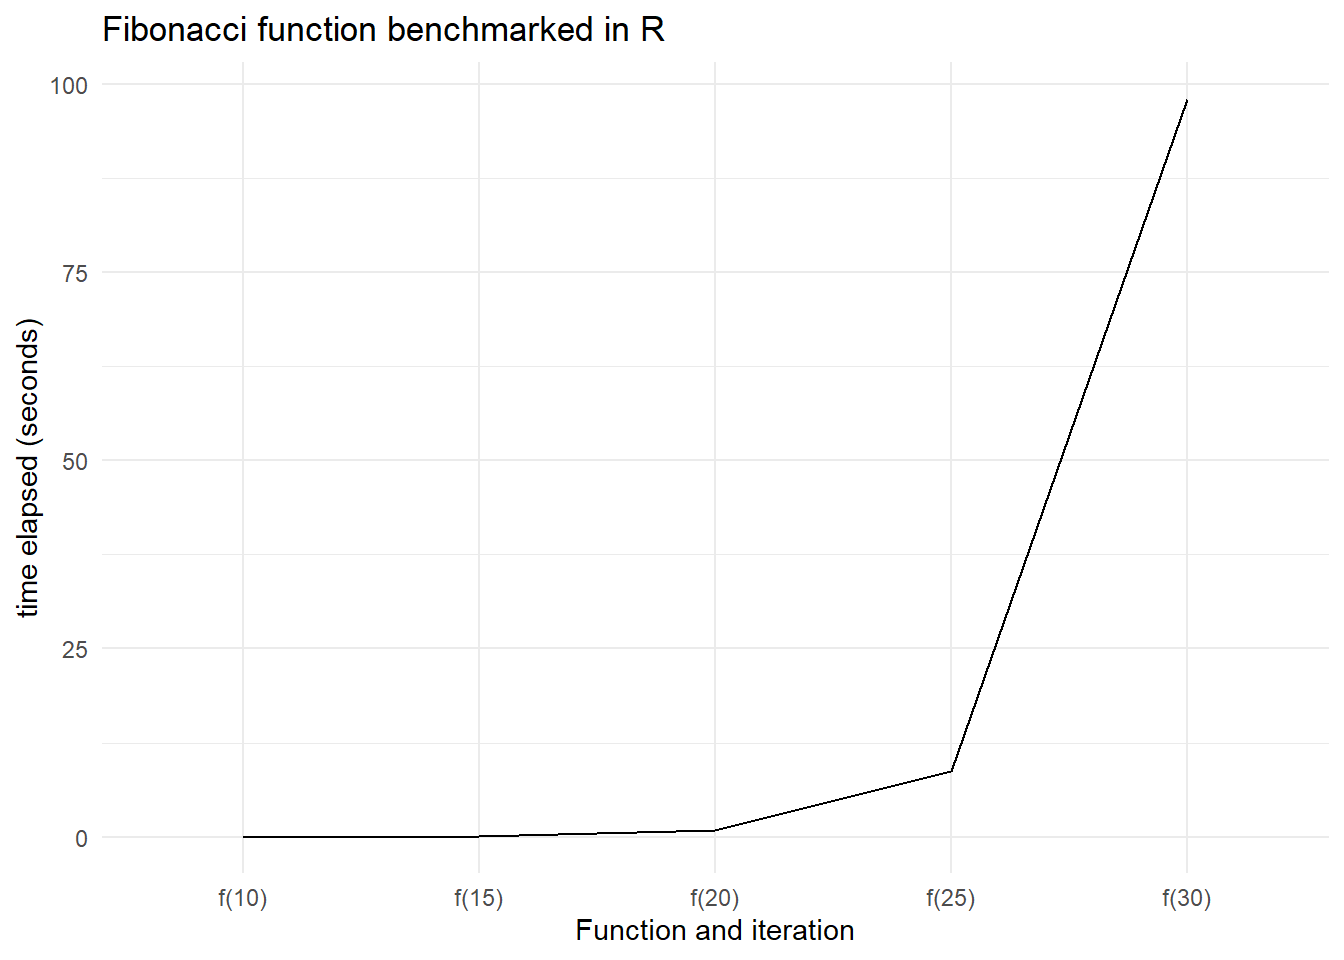
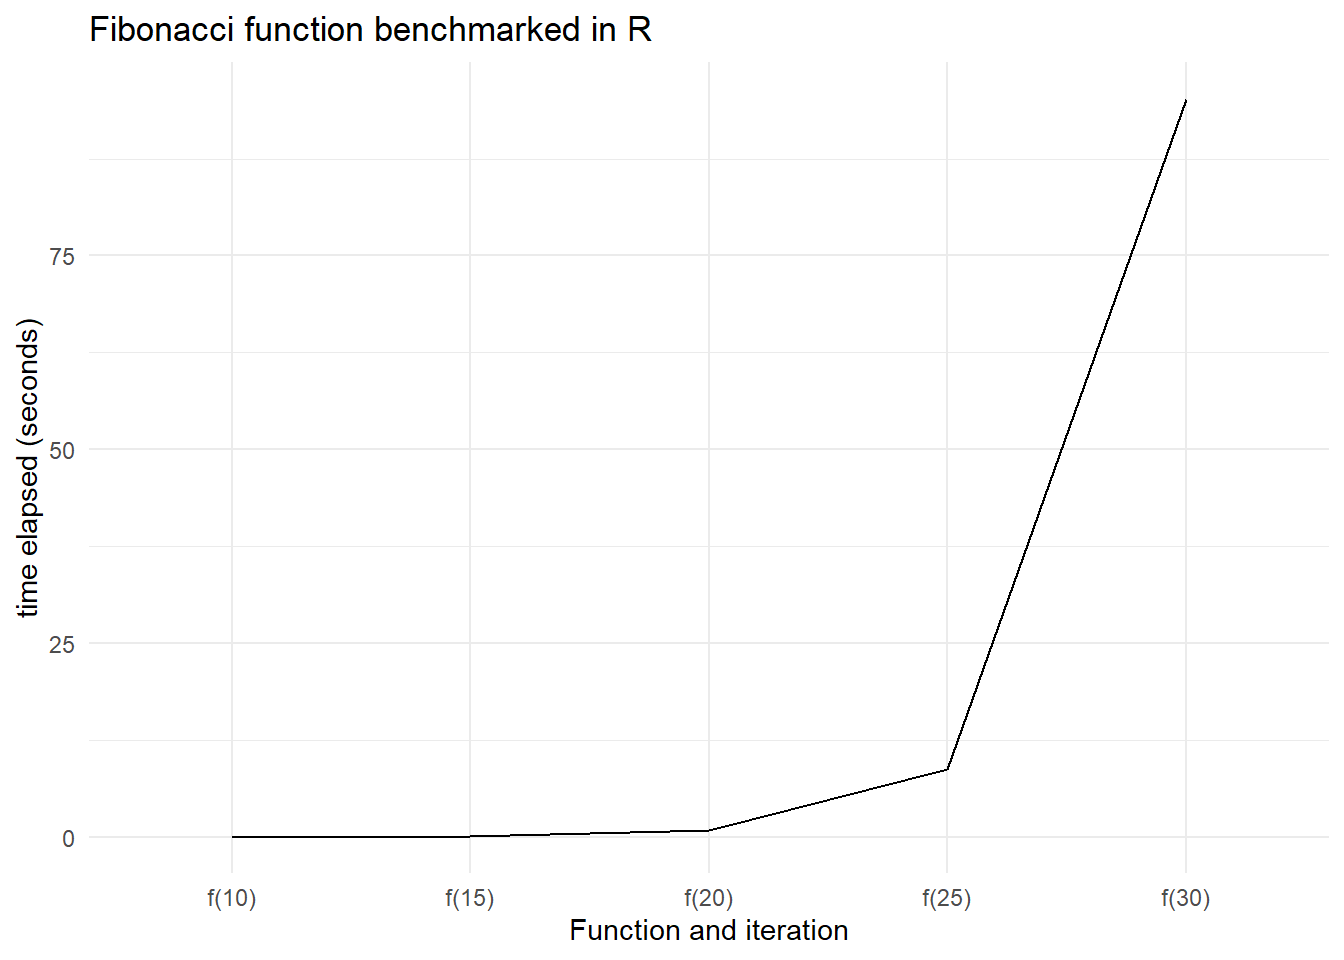
automated commit

diff --git a/public/2021/03/23/rcpp-integration/index.html b/public/2021/03/23/rcpp-integration/index.html
@@ -109,9 +109,9 @@ Rscores</code></pre>
 <pre><code>##    test replications elapsed relative
 ## 1 f(10)          100    0.02      1.0
 ## 2 f(15)          100    0.06      3.0
-## 3 f(20)          100    0.85     42.5
-## 4 f(25)          100    8.72    436.0
-## 5 f(30)          100   98.03   4901.5</code></pre>
+## 3 f(20)          100    0.81     40.5
+## 4 f(25)          100    8.75    437.5
+## 5 f(30)          100   95.23   4761.5</code></pre>
 <pre class="r"><code>p &lt;- Rscores %&gt;% 
   filter(elapsed&gt;0) %&gt;% 
   ggplot(aes(test,elapsed, group = 1))+
@@ -140,9 +140,9 @@ Cscores</code></pre>
 <pre><code>##    test replications elapsed relative
 ## 1 g(10)          100    0.00       NA
 ## 2 g(15)          100    0.00       NA
-## 3 g(20)          100    0.01       NA
+## 3 g(20)          100    0.02       NA
 ## 4 g(25)          100    0.02       NA
-## 5 g(30)          100    0.22       NA</code></pre>
+## 5 g(30)          100    0.20       NA</code></pre>
 <pre class="r"><code>p &lt;- Cscores %&gt;% 
   ggplot(aes(test,elapsed, group = 1))+
   geom_line()+ theme_minimal()+
@@ -152,18 +152,11 @@ Cscores</code></pre>
 
 print(p)</code></pre>
 <p><img src="/2021/03/23/rcpp-integration/index_files/figure-html/cplot-1.png" width="672" /></p>
-<pre class="r"><code>last_elapsed_r &lt;- Rscores %&gt;% tail(1)
-
-last_elapsed_r &lt;- last_elapsed_r[[3]]
-
-last_elapsed_c &lt;- Cscores %&gt;% tail(1)
-
-last_elapsed_c &lt;- last_elapsed_c[[3]]</code></pre>
 </div>
 </div>
 <div id="conclusion" class="section level1">
 <h1>Conclusion</h1>
-<p>The speed gains in calculating the 30th iteration of the Fibonacci sequence within C++ (0.22 seconds) massively outperforms R (98.03 seconds).</p>
+<p>The speed gains in calculating the 30th iteration of the Fibonacci sequence within C++ (0.2 seconds) massively outperforms R (95.23 seconds).</p>
 </div>
 
     </div>

diff --git a/content/post/2021-03-23-rcpp-integration/index.html b/content/post/2021-03-23-rcpp-integration/index.html
@@ -43,9 +43,9 @@ Rscores</code></pre>
 <pre><code>##    test replications elapsed relative
 ## 1 f(10)          100    0.02      1.0
 ## 2 f(15)          100    0.06      3.0
-## 3 f(20)          100    0.85     42.5
-## 4 f(25)          100    8.72    436.0
-## 5 f(30)          100   98.03   4901.5</code></pre>
+## 3 f(20)          100    0.81     40.5
+## 4 f(25)          100    8.75    437.5
+## 5 f(30)          100   95.23   4761.5</code></pre>
 <pre class="r"><code>p &lt;- Rscores %&gt;% 
   filter(elapsed&gt;0) %&gt;% 
   ggplot(aes(test,elapsed, group = 1))+
@@ -74,9 +74,9 @@ Cscores</code></pre>
 <pre><code>##    test replications elapsed relative
 ## 1 g(10)          100    0.00       NA
 ## 2 g(15)          100    0.00       NA
-## 3 g(20)          100    0.01       NA
+## 3 g(20)          100    0.02       NA
 ## 4 g(25)          100    0.02       NA
-## 5 g(30)          100    0.22       NA</code></pre>
+## 5 g(30)          100    0.20       NA</code></pre>
 <pre class="r"><code>p &lt;- Cscores %&gt;% 
   ggplot(aes(test,elapsed, group = 1))+
   geom_line()+ theme_minimal()+
@@ -86,16 +86,9 @@ Cscores</code></pre>
 
 print(p)</code></pre>
 <p><img src="{{< blogdown/postref >}}index_files/figure-html/cplot-1.png" width="672" /></p>
-<pre class="r"><code>last_elapsed_r &lt;- Rscores %&gt;% tail(1)
-
-last_elapsed_r &lt;- last_elapsed_r[[3]]
-
-last_elapsed_c &lt;- Cscores %&gt;% tail(1)
-
-last_elapsed_c &lt;- last_elapsed_c[[3]]</code></pre>
 </div>
 </div>
 <div id="conclusion" class="section level1">
 <h1>Conclusion</h1>
-<p>The speed gains in calculating the 30th iteration of the Fibonacci sequence within C++ (0.22 seconds) massively outperforms R (98.03 seconds).</p>
+<p>The speed gains in calculating the 30th iteration of the Fibonacci sequence within C++ (0.2 seconds) massively outperforms R (95.23 seconds).</p>
 </div>
